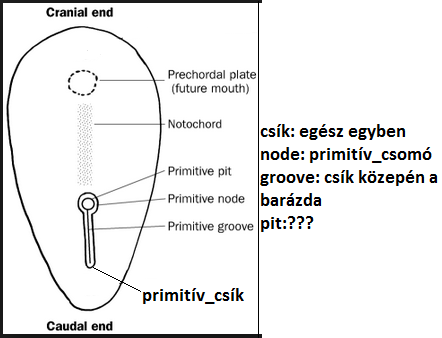
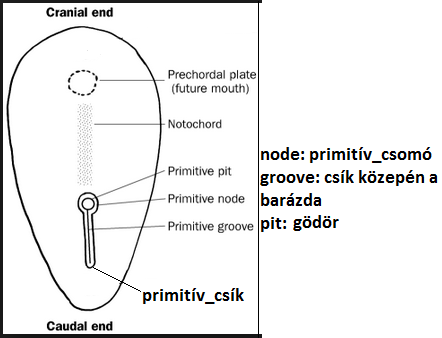
make some changes

Changed region(s): [[0.5882, 0.355, 0.9412, 0.4142], [0.6471, 0.6213, 0.7647, 0.6805]]

diff --git a/fb/FejlBiosz.html b/fb/FejlBiosz.html
@@ -42,11 +42,31 @@
 <!--///--><details><summary class="phase">1. Őssejtek biológiája, típusai. Indukált pluripotens őssejtek.</summary><div class="normal">
 <!--///--></div></details>
 
-<!--///--><details><summary class="phase">2. Ontogenezist szabályozó faktorok. Spemann organizátor központ molekuláris természete és szabályozása.</summary><div class="normal">
+<!--///--><details><summary class="phaseC">2. Ontogenezist szabályozó faktorok. Spemann organizátor központ molekuláris természete és szabályozása.</summary><div class="normal">
+	<div style="float:right;max-width:25%">
+		<img src="images/triton.png">
+		<img src="images/primitívcsík.png">
+		<img src="images/opticvescile.png">
+	</div>
+	<br><span class="white">&#9775;</span> Spemann a 20.század elején végzett kísérletet gőtén. Azt csinálta, hogy kivette az egyik embrióból a "dorsalis ajak" részét mikor az megjelent a gasztruláció előtt. Majd átültette egy azonos fejlődési stádiumban lévő másik gőteembrióba, ventralisan. Így utóbbi 2db "dorsalis ajak"-al rendelkezett. A fejlődése során ennek az lett a következménye, hogy egy másodlagos testtengely is kialakult benne(kép!). A kísérlet elvégzése után így nyilvánvalóvá vált, hogy a "dorsalis ajak" egész különleges képességgel rendelkezik, ugyanis képes egy újabb testtengelyt létrehozni. <abbr title="a különböző gőtefajok használata tette lehetővé ennek megállapítását, ugyanis látható volt, hogy az új testtengely mely részei erednek a donor embrióból és melyek a recipiensből">&#10045;</abbr> Méghozzá nem is akárhogy: az új tengely nagy része ugyanis a recipiens (amelyikbe beültették) sejtjeiből jött létre, azaz a "dorsalis ajak" arra utasította a körülötte levő sejteket, hogy hozzanak létre valamit, amit maguktól nem hoznának létre. Ezért is nevezték el Spemannék ezt a szövetdarabot “organizátornak”.
+	<br><span class="white">&#9775;</span> Az organizációs centrum alatt olyan sejtcsoport<abbr title="(=szövetdarab)">&#10045;</abbr> értünk, mely adott fejlődési stádiumban indukálja, hogy mi legyen a környező szövetekből. Embernél a gasztruláció során az organizációs centrum<abbr title="ez nem ilyen pontos definíció szerintem, mert sok más is befolyásolja stb, de a lényeg, hogy szvsz ez a fő ilyen irányító sejtcsoport">&#10045;</abbr> a primirív_gödör(=Hensen-csomó). Neurolational pedig a chorda_dorsalis, anteriovisceralis_endoderma stb. lesznek az organizációs centrumok.
+	<br><span class="miss">&#9775;</span> Neurolatio során pl. a chorda_dorsalis SHH-t expresszál, amivel ventralizáló hatása van. Ha a chorda_dorsalis nem lenne, akkor a dorsalis struktúrák alakulnának ki túlzott mértékben, ugyanis a BMP-4et nem gátolná semmi. Ebben a példában  az SHH és TGF&beta;(hisz BMP az) jelátviteli folyamatok zajlottak, melyek befolyásolták a TF-ek működését, és ezáltal közvetve befolyásolták génexpressziót, ami eredményezi a "túlzott mértékű dorzalizációt,ventralizációt" (vagy gőte esetében a másodlagos testtengelyt, de ott nem ezen jelátviteli folyamatok vannak feltételezhetően).
+	<br><span class="white">&#9775;</span> Például a szem fejlődésénél szemhólyag indukálja az ektoderma szemlencsévé alakulását. Ha a szemhólyagot ektoderma más része alá teszem, ott a szignál nem váltja ki átalakulását szemlencsévé, ugyanis az inkompetens. Tanúlság: csak a Pax6 (TF) expresszáló ektoderma képes szemlencsévé alakulni szignál hatására. Megfigyelhető később a reciprok indukció, vagyis a képződött szemlencse visszahat a szemhólyagra és kialakul belőle a retina.
+	<br><span class="miss">&#9775;</span> Hamburger-Hamilton stádium alatt a következőt értjük. Ők ketten figyelték a csirke fejlődését, és a a meghatározó stádiumokat megfigyelte. Ezt úgy érdemes felfogni, hogy pl. gasztruláció a HH-10, a neurolatio pedig a HH-11 (random számokat írtam).
+	<br><span class="miss">&#9775;</span> Zigótáknak alapvetően két típusát különböztetjük meg: mozaik és regulatios. Mozaik esetében a zigótának van polaritása, így ha egyik felét eltávolítom (vagy első osztódás után elkülönítem a kettőt), akkor nem fog normálisan fejlődni (úgy kell elképzelni, hogy testének csak egyik fele lesz meg). Ez csak primitív gerinceseknél van. Embernél regulatios van, ami esetében ha a zigóta első osztódása után különválasztom a két sejtet, akkor abból 1petéjű ikrek lesznek.<abbr title="szvsz 1.osztódás után ugyanis még ugyanolyan polaritású sejtek keletkeznek még">&#10045;</abbr>
 <!--///--></div></details>
 
-<!--///--><details open><summary class="phaseA">3. Ontogenezist szabályozó mechanizmusok. Transzkripciós faktorok és a Hox gének jelentősége. Jelátviteli folyamatok a fejlődésben.</summary><div class="normal">
-	<details open><summary>Esszé</summary>
+<!--///--><details><summary class="phaseA">3. Ontogenezist szabályozó mechanizmusok. Transzkripciós faktorok és a Hox gének jelentősége. Jelátviteli folyamatok a fejlődésben.</summary><div class="normal">
+	<div>
+		<div style="float:right;max-width:25%">
+			<img src="images/génkontroll.png">
+			<img src="images/sejdfifftf.png">
+			<img src="images/opticvescile.png">
+			<img src="images/recpitrokindukc.png">
+			<img src="images/ndlcdllk.png">
+			<img src="images/notchjustakrin.png">
+		</div>
+		<div class="title">Bevezetés</div>
 		<span class="white">&#9775;</span> Minden sejtben ugyanaz a DNS állomány, mégis különbözőek a sejtek felépítése stb. Ez azért van mert a fehérjék szabályozzák, hogy mely gének expresszálódjanak. A fejlődés irányítását végző fehérjék 2csoportra oszthatók: <strong>TF-ek</strong>, és <strong>jelátviteli molekulák</strong>. A jelátviteli folyamatok szabályozzák a TF-eket, melyeken keresztül pedig a génexpressziót. Első lépésben a génexpresszió közvetlen szabályozásáról írok (ebbe tartoznak a TF-ek).
 		<br><span class="white">&#9775;</span> A transzkripciós szabályozás 2 csoportra osztható: <strong>finom</strong> és <strong>durva</strong>. Durva lényege, hogy a hisztonok aminosavoldalláncaihoz kapcsolódnak különböző vegyületet (metilcsoport,acetilcsoport,foszfátot). Ezen belül megkülönböztetjük a <strong>metilációt</strong>, <strong>acetiláció</strong>, <strong>deacetiláció</strong> és <strong>foszforiláció</strong>. Metiláció silenceli az adott DNS-szakaszt. Acetiláció ellazítja a kromatint, és így serkenti a transzkripciót. Deacetiláció pont az ellentetjét váltja ki, tehát a kromatin kondenzálódik (visszafűződik), gátolja a transzkripciót. Foszforiláció szinte minden folyamatnál végbemegy.
 		<div class="title">Transzkripciós faktorok és a Hox gének jelentősége</div>
@@ -56,20 +76,20 @@
 		<div class="title">Jelátviteli folyamatok</div>
 		<span class="white">&#9775;</span> TF-ek komplexeket alkotnak, melyek bizonyos elemei folyamatosan kicserélődnek a fejlődés során. Ezen átalakulást a <strong>jelátviteli folyymatok</strong> végzik. Jelátviteli molekulák: <strong>ligandum=szignál</strong>(pl.GF-ek,BMP,SHH) + <strong>receptor</strong>. Receptor ha megköti a ligandumot, akkor elindul az ún. <strong>szignáltranszdukciós_útvonal = jelátviteli_útvonal</strong>, mely által szabályozzák majd a TF-eket.
 		<br><span class="white">&#9775;</span> Lényegük, hogy egy <strong>sejtcsoport (inducer)</strong> expresszál valamilyen <strong>ligandumot</strong>(pl.BMP,SHH), és ez fog hatni egy másik <strong>sejtcsoportra (responder)</strong>. Pl. chorda_dorsalis(inducer) expresszál SHH-t(szignál), mely következtében indukálja az ectoderma(responder) neuroectodermává válását.
-		<br><span class="white">&#9775;</span> A kompetencia egy adott sejtcsoport válaszadási képessége egy bizonyos szignálra. pl. szemhólyag fejlődésnél szemhólyag indukálja az ektoderma szemlencsévé alakulását. Ha a szemhólyagot ektoderma más része alá teszem, ott a szignál nem váltja ki átalakulását szemlencsévé, ugyanis az inkompetens. Tanúlság: csak a Pax6 (TF) expresszáló ektoderma képes szemlencsévé alakulni szignál hatására. Megfigyelhető később a reciprok indukció, vagyis a képződött szemlencse visszahat a szemhólyagra és kialakul belőle a retina.
+		<br><span class="white">&#9775;</span> A kompetencia egy adott sejtcsoport válaszadási képessége egy bizonyos szignálra. Például a szem fejlődésénél szemhólyag indukálja az ektoderma szemlencsévé alakulását. Ha a szemhólyagot ektoderma más része alá teszem, ott a szignál nem váltja ki átalakulását szemlencsévé, ugyanis az inkompetens. Tanúlság: csak a Pax6 (TF) expresszáló ektoderma képes szemlencsévé alakulni szignál hatására. Megfigyelhető később a reciprok indukció, vagyis a képződött szemlencse visszahat a szemhólyagra és kialakul belőle a retina.
 		<br><span class="white">&#9775;</span> A fejlődésben szerepet játszó fontosabb jelátviteli_útvonalak: <span class="WHITE">Citokinin</span> <span class="WHITE">RPTK</span> <span class="WHITE">TGF&beta;</span> <abbr title="(valójában Hg-R volt, szóval az lehet nagyobb csoportot jelöl, vagy valami gént mittudomén, de ez a lényege csak)">HH</abbr> <span class="WHITE">Wnt</span> <span class="WHITE">Notch</span>.
 		<br><span class="white">&#9775; TGF&beta;</span> <strong>Negatív</strong> befolyással vannak a növekedésre. A ligandumokról kapta az elnevezést, ugyanis azok a TGF&beta;-(szuper)család. Ebbe családba tartoznak pl. BMP-k, Nodal. <strong>Nodal</strong> részt vesz pl. jobb-bal asszimetria kialakulásában (lásd még HH-jeltáviteli_útvonal). <strong>BMP</strong> részt vesz pl. neurolációnál (és csontfejlődésben is, a nevét onnan kapta: Bone Morphogenetic Protein). Neuroláció során kiinduláskor, az ectoderma a "benne lévő" BMP-4 koncentráció alapján 3 részre osztható: magas a későbbi epidermisben, közepes a későbbi dúclécben, alacsony a későbbi velőcsőben. Ez gátolja at ectoderma átalakulását neuroectodermává. Azonban a chorda_dorsalis olyan szignálokat küldd (WNT3 és az FGF) melyek gátolni fogják a BMP-4-et és megkezdődik a neuroláció.
 		<br><span class="white">&#9775; RPTK</span> Nevét a receptorrol kapták: <strong>receptor-tirozin-kináz</strong>(RTK). A ligandumok a <strong>GF</strong>-ek. Az FGF <strong>pozitív</strong> befolyással van a növekedésre.
 		<br><span class="white">&#9775; HH</span> Ligandunok neve: <abbr title="SonicHedgeHog">SonicHH</abbr> (,DesertHH, IndianHH). Jelentősége pl. bal-jobb aszimmetria kialakítása, ennek lényege: primitív csomó környékén vannak csillók, melyek átáramoltatják bal_oldalra az SHH-t<abbr title="és egyéb">&#10045;</abbr>, aminek következtében a <strong>nodal</strong>(szignálmolekula=ligandum) expresszió bal oldalt fog történni.
 		<br><span class="white">&#9775; WNT</span> Ligandumok neve WNT. Jelentősége pl. gasztruláció, illetve !szvsz! neuroláció megkezdésének is a feltétele (WNT-3)
-		<div class="title"><span class="Important">Notch jelátviteli útvonal</span></div>
+		<div class="title">Notch jelátviteli útvonal</div>
 		<span class="WHITE">&#9775; Előfordulása:</span> Gerinctelenekben és gerincesekben egyaránt jelen van. Sokmindenben részt vesz, emberben pl. T-progenitor-sejt visszafordíthatatlan T-sejt irányú elkötelezettséget indukálja (hogy ne lehessen már B-progenitor-sejt). 
 		<br><span class="WHITE">&#9775; Jellemzése:</span> Ez juxtakrin jelátviteli útvonal (tehát a ligandumot kibocsátó sejt, és az azt receptorral fogadó sejt egymással érintkezik!). Ugyanis a receptor és szignál(=ligandum) is transzmembrán-fehérje. Receptor neve Notch, a ligandum neve Delta.
 		<br><span class="WHITE">&#9775; Bemutatása:</span> Ennek hatását legjobban a drosophila(muslica) idegrendszerénék fejlődésében lehet kimutatni (ott is fedezték fel). Itt jól megfigyelhető az ún. laterális-gátlás: tehát a már neuronná alakuló sejt elkezd expresszálni ligandumot, melyet a környező sejtek Notch-receptorai megfognak. Ennek következménye, hogy az expresszáló sejt átalakul neuronná, míg a körülötte lévő sejtek megmaradnak progenitor fázisban (később pedig átalakulnak majd glia-sejtekké). Így az ektoderma egy része fog csak átalakulni neuroektodermává. Felfedezése ehhez volt köthető, ugyanis egyes példányokban szinte az egész ectoderma átalakult neuroektrodermává, és utánajártak mi volt az oka.
 		<br><span class="WHITE">&#9775; Lényege:</span> Amikor a receptor és a ligand fúzionál extracellulárisan, akkor a receptor intracelluláris része <abbr title="notch intracellular domain">(NICD)</abbr> levágódik. Ez bejut a sejtmagba ahol egy transzkripciós-koaktivátor-komplexhez csatlakozik. Normál állapotban a transzkripciós-koaktivátor-komplex gátolja a bizonyos represszor_TF-eket (represszor=gátló!!) kódoló géneket. Azonban a NICD hatására már nem fogja gátolni azokat a géneket, és megkezdődik a represszor_TF-ek expressziója. Ezek olyan gének expresszióját fogják gátolni, melyek szövetspecifikusak (pl. proneuralis gének). Ezáltal akadályozza meg a sejtelköteleződést, azaz tartja meg a progenitor állapotot. Tehát a Bemutatása példában azért alakult át szinte az egész ectoderma neuroectodermává, mert hibás volt a Notch-jelátviteli út, és nem volt ami mérsékelte volna az átalakulás mértékét.
 
 
-	</details>
+	</div>
 	<br><br><details><summary>Részletesebb</summary>
 		<div style="float:right;max-width:16%">
 			<img src="images/génkontroll.png">
@@ -242,17 +262,19 @@
 	<br><span class="WHITE">&#9775; Lényege:</span> Amikor a receptor és a ligand fúzionál extracellulárisan, akkor a receptor intracelluláris része <abbr title="notch intracellular domain">(NICD)</abbr> levágódik. Ez bejut a sejtmagba ahol egy transzkripciós-koaktivátor-komplexhez csatlakozik. Normál állapotban a transzkripciós-koaktivátor-komplex gátolja a bizonyos represszor_TF-eket (represszor=gátló!!) kódoló géneket. Azonban a NICD hatására már nem fogja gátolni azokat a géneket, és megkezdődik a represszor_TF-ek expressziója. Ezek olyan gének expresszióját fogják gátolni, melyek szövetspecifikusak (pl. proneuralis gének). Ezáltal akadályozza meg a sejtelköteleződést, azaz tartja meg a progenitor állapotot. Tehát a Bemutatása példában azért alakult át szinte az egész ectoderma neuroectodermává, mert hibás volt a Notch-jelátviteli út, és nem volt ami mérsékelte volna az átalakulás mértékét.
 	<div class="title"><span class="Important">Gasztruláció</span></div>
 	<span class="WHITE">&#9775;</span> Két fontos dolog történik. Egyrészt kialakul a 3 csíralemez (ektoderma,endoderma,mezoderma) az epiblast-sejtekből<abbr title="epiblast és hypoblast az embrioblast sejtekből jött létre">&#10045;</abbr>. Másrészt kialakulnak a testtengelyek: anterior-posterior, dorsal-ventral, jobb-bal. Szabályozásában itt leginkább a parakrin jelátviteli útvonalak fordulnak elő<abbr title="ettől még van juxtakrin is de sokkal kisebb jelentőségű">&#10045;</abbr>. Ez a határ a pluripotens és multipotens-sejtek között (innentől már multipotens-sejtek lesznek).
-	<br><span class="WHITE">&#9775;</span> Az epiblast sejtek folyamatosan osztódnak, és közben elkezdenek középirányba vándorolni, így felhalmozódnak, és ennek következtében primitív_csík megjelenik az embrió !posterior! oldalán(~14.napon). Innen növekedik anterior irányba tovább. Primitív_csík anterior részen közben kialakul a primitív_csomó(=Hensen-csomó). (szvsz A primitív_csíkot úgy érdemes felfogni mint egy domb (sok sejt ott feltorlódik), de a közepén van egy "völgy", ami a primitív_barázda.)
+	<br><span class="WHITE">&#9775;</span> Az epiblast sejtek folyamatosan osztódnak, és közben elkezdenek középirányba vándorolni, így felhalmozódnak, és ennek következtében egy primitív_csík megjelenik az embrió !posterior! oldalán(~14.napon). Innen növekedik anterior irányba tovább. Primitív_csík anterior részen közben kialakul a primitív_csomó(=Hensen-csomó). (A primitív_csíkot úgy érdemes felfogni mint egy domb (sok sejt ott feltorlódik), de a közepén van egy "völgy", ami a primitív_barázda.)
 	<br><span class="WHITE">&#9775;</span> Alapvetően az epiblast-sejtek normál hengerhámsejtek. Amikor a primitív_gödörben át bejutnak az epiblast és hypoblast réteg közé, akkor ún. epithelio-mesenchymális átalakuláson mennek keresztül. Nohde, ez hogy történik? Amikor ezen sejtek feltorlódnak a primitív_csíkban, akkor FGF-8 (!parakrin! jelátviteli útvonal szignálja) hatására megváltoznak. Tehát fellazulnak a sejtek közti kapcsolatok, bazális membránnal való kapcsolat. Ezek belépnek a hypoblast-epiblast réteg közé, és innentől mesenchymal-sejteknek hívjuk őket. Ezek egyrésze beékelődik a hypoblast sejtek része közé, és szétnyomják azokat. Ezek a bevándorolt mesenchyma-sejtek alakulnak át endodermává (míg a hypoblastból extraembrionális endoderma lesz csak!). 
 	<br><span class="WHITE">&#9775;</span> Nohde, mi szabályozza az egészet, tehát 1 epiblast-sejt mi alapján döntse el, hogy endo/meso/ectoderma legyen-e? A válasz abban van, hogy az epiblast sejt nem mindegy, hogy MIKOR halad át a primitív_csík MELY részén. Ugyanis a primitív csíknak anteroposterior és dorsoventral irányban is van szegregáltsága(elkülönülése), melyet a molekuláris komponensek határoznak meg. Dorsoventralisat az FGF-8 végzi, ugyanis ennek koncentrációja nagy dorsalisan, ventralisan alacsony. Anterioposterior tengely mentén szintén hasonló, de ott több típusú fehérje is van ami szabályozza (bonyolult, és még nem teljesen tisztázott). 
 	<br><span class="WHITE">&#9775;</span> A primitív_barázdába belépő (epiblast származék) mesenhyma-sejtek bilaterálisan vándorolnak. Hensen-csomónál azonban belépő sejtek a többivel ellentétben anterior irányba vándorolnak, és ebből lesz a prechordalis lemez és a chorda_dorsalis(=notochord). 
 	<br><span class="WHITE">&#9775;</span> A belépő epiblast sejtek még pluripotensek, majd a primitív csíkba belépve "kapja meg az infót", hogy milyen sejt legyen belőlük. Az infot parakrin jelátviteli úton kapják meg főként. 
 	<br><span class="WHITE">&#9775;</span> Ezenkívül megemlítendő, hogy a primitív_csík "1.fázisban" még posterior felől anterior irányba növekszik, majd "2.fázisban", elindul az anterior vége ismét "visszafogy". Utóbbi során a Hensen-csomón belépő epiblast-sejtek folyamatosan hozzáadódnak a chorda_dorsalishoz, és így alakul ki teljes hosszában. 
-	<br><span class="WHITE">&#9775;</span> Ectoderma a gastrulatio elején a primitív_csík és Hensen-csomó előtti (anterior irányban lévő) epiblastból fog kialakulni. 
+	<br><span class="WHITE">&#9775;</span> Ectoderma a gastrulatio elején a primitív_csík és Hensen-csomó előtti (anterior irányban lévő) epiblastból fog kialakulni.
+	
+	<br><br>“Nem a születés, a házasság, vagy a halál, hanem a gasztruláció életed legfontosabb eseménye.” (ugyanis, ha valami itt nem tökéletes akkor kampó)
 <!--///--></div></details>
 
 <!--///--><details><summary class="phaseA">8. Mintázatképződés az emlősembryóban: antero-posterior és dorso-ventralis tengelyek kialakulása.</summary><div class="normal">
-	<div style="float:right;max-width:10%">
+	<div style="float:right;max-width:13%">
 		<img src="images/antepostdoven.png">
 		<img src="images/polocyte.png">
 		<img src="images/anteroviscend.png">
@@ -263,25 +285,25 @@
 		<img src="images/ndlcdllk.png">
 	</div>
 	<span class="important">&#9775;</span> Embriónál anteroposterior alatt a cranial-caudalt értjük, tehát a feji vége anterior.
-	<div class="title">Fertilizáció során a polaritás</div>
+	<br><br><div class="title">Fertilizáció során a polaritás</div>
 	Petesejtnek már a feritilizáció előtt van a citoplazmájának összetétele alapján bizonyos polaritása, azaz 2 részre osztható: van egy animális fele, és egy vegetális fele (utóbbiban több a szikanyag, míg előbbiben a maganyag több). Fertilizáció során a spermium pronucleusa a petesejt animális felében lép be. <span class="Important">A belépési pont lesz az embrió ventralis része, azzal szemben pedig a dorsalis része</span> (dorsalisnál lesz majd a blasztopórus). Zigóta első osztódása a dorso-ventral pontokat összekötő tengelyre merőleges síkon keresztül, a hossztengellyel párhuzamosan történik (azaz szvsz első után még mindkét sejtben animális és vegetális kb ugyanannyi), (szvsz hossztengely = anteroposterior-tengely).
 
-	<div class="title">(Barázdálódás)</div>
+	<br><br><div class="title">(Barázdálódás)</div>
 	(4 osztódás történik, tehát kialakul a 16sejtű morula = szedercsíra állapot). (Ezután megtörténik a kompaktizáció (lásd 6.tétel)). (Végül kialakul a blastula). Amely sejtek kívül vannak, azokból lesznek trophoblast-sejtek. Amely sejtek belülül vannak, azokból lesznek embrioblast-sejtek<abbr title="ezek összesége az ún. embriocsomó">&#10045;</abbr>.
 
-	<div class="title">Gasztruláció &#10140; AnteroPosterior-TENGELY kialakulása</div>
+	<br><br><div class="title">Gasztruláció &#10140; AnteroPosterior-TENGELY kialakulása</div>
 	<span class="WHITE">&#9775;</span> <span class="Important">FONTOS! 7.tételben van kidolgozva részletesen, itt csak AP-tengelyre vonatkozó részleteit említem meg!</span> Két fontos dolog történik. Egyrészt kialakul a 3 csíralemez (ektoderma,endoderma,mezoderma) az epiblast-sejtekből<abbr title="epiblast és hypoblast az embrioblast sejtekből jött létre">&#10045;</abbr>. Másrészt kialakulnak a testtengelyek: anterior-posterior, dorsal-ventral, jobb-bal. A gasztruláció során zajlik a neuroláció "előkészítése"(neuroektoderma-kialakulás, ami utána majd lefűződik). Alapvetően az ectoderma azért nem alakul át neuroektodermává(későbbi velőcső lesz), mert a BMP-4 gátolja ezt. 
 	<br><span class="WHITE">&#9775;</span> Primitív-csík megjelenésekor már az anteroposterior tengely meghatározható, ugyanis a csík a posterior oldalon jelenik meg, és anterior irányba terjed tovább. Ez hogyan határozódik meg? A 2 csíralamezes (epiblast, hypoblast) állapotban (tehát gasztruláció kiindulásakor) már anterior irányban látható egy ún. anterovisceralis endoderma. Ez indukálja a primitív csík és primitív csomó kialakulását. A kialakuló chorda_dorsalis és primitív_csomó olyan szignálokat (pl.chordin) küld, ami gátolja a BMP-4et. Ezek a faktorok csak az előagy és a középagy fejlődését indukálják. Az utóagy és a gerincvelő kialakulása a WNT3 és az FGF hatására történik! Ennek következtében az ectoderma egy része átalakul neuroektodermává.
 	<div class="title">AnteroPosterior-MINTÁZAT kialakulása</div>
 	Tehát a gasztrulációnál az előbbiekben az anteroposterior TENGELY kialakulását említettem meg. A MINTÁZAT kialakulása később történik. AP-mintázat-kialakulás alatt a szegmentációt, tehát a szelvényezettség kialakulását értem. Ezt a HOX gének irányítják. Megjegyzendő, hogy a retinsav szabályozza a HOX gének expresszióját.
 
-	<div class="title">DorsoVentral-tengely kialakulása</div>
+	<br><br><div class="title">DorsoVentral-tengely kialakulása</div>
 	Epiblast és hypoblast réteg kialakulánásnál már meghatározódott az embrió dorsoventral tengelye. De fontos jelentősége van még a velőcső dorsoventral-tengelyének kialakulásának (továbbiakban erről lesz szó). Kiinduláskor az ectodermában lévő BMP-4 koncentráció alapján 3 részre oszhatóak: magas a későbbi epidermisben, közepes a későbbi dúclécben, alacsony a későbbi velőcsőben. A chorda_dorsalis SHH-t expresszál. SHH-nak a koncentráció fv-ében ventralizáló hatása van (minél nagyobb koncentrációjú, akkor ventrálisabb lesz). Így a chorda_dorsalis "felett" lévő fejlődő velőcső lesz ventralis, a tőle egyre távolabbi pedig dorsalis. A velőcső bezáródása után megjelenik az ún. floor_plate és roof_plate. A floor_plate és is ugyanúgy expresszálja tovább SHH-t, csakúgy mint chorda_dorsalis A roof_plate azonban BMP-4et expresszál. Ennek hatása pont ellentétes az SHH-éval, tehát dorzalizál. (Érdekesség, hogyha egy másik chorda_dorsalist ültetünk a velőcső mellé, akkor megjelenik még1 floor_plate)
 	<div class="title">Bal-jobb asszimetria kialakulása</div>
 	<span class="WHITE">&#9775;</span> Primitív csomó környékén lévő sejteken vannak csillók, melyek átáramoltatják bal_oldalra az SHH-t, aminek következtében a nodal(szignálmolekula=ligandum) expresszió bal oldalt fog történni. Primitív_csomó és primitív csík expresszálja a nodalt. Primitív_csomó és chorda_dorsalis expresszálja az SHH-t. 
 	<br><span class="WHITE">&#9775;</span> Situs inversus &#10140; fejlődési rendellenesség, amikor jobb oldalon vannak az eredetileg bal oldali szervek (pl. szív) (ilyenje van pl. Enrique Iglesias-nak).
 
-	<div class="title">mix</div>
+	<br><br><div class="title">mix</div>
 	<span class="vocab">&#9775;</span>Spemann kísérlete: 1 Blastoporust tett egy másik gasztrulációban lévő embrióba, és ennek következtében azon mentén is elkezdett fejlődni az idegrendszer stb.
 <!--///--></div></details>
 
@@ -317,21 +339,39 @@
 	<br><span class="Important">pl</span> Fenilketonúria oka a fenilalanin hidroxiláz génben való mutáció. Ez az enzim normálisan a fenilalanin aminosavat alakítja tirozinná. A hibás működés eredményekét toxikus szintűre halmozódik fel a fenilalanin. Ez a betegség a szellemi visszamaradottság mellett pl. csökkent haj és bőr pigmentáltságot is okoz.
 <!--///--></div></details>
 
-<!--///--><details><summary class="phase">10. Ősivarsejtek differenciálódása: specifikálódás, migráció, fejlődés.</summary><div class="normal">
+<!--///--><details><summary class="phaseC">10. Ősivarsejtek differenciálódása: specifikálódás, migráció, fejlődés.</summary><div class="normal">
+	<div style="float:right;max-width:30%">
+		<img src="images/miosis.png">
+		<img src="images/migration.png">
+		<img src="images/downregulation.png">
+		<img src="images/folliculus.png">
+	</div>
+	<div class="title">Bevezetés</div>
+	<span class="white">&#9775;</span> Felnőttben kétféle sejttípus van: csírasejt(1féle) és <abbr title="testi_sejtek">szomatikus_sejtek</abbr>(~200féle). Csírasejt az egyetlen olyan sejt, mely képes a genetikai infot egyik egyedből a másikba tovább vinni. Ezért is nevezik "hallhatatlan"-nak, míg a testi_sejteket "halandó"-nak.
+
+	<br><br><div class="title">Specifikálódás</div>
+	<span class="white">&#9775;</span> Mikor válnak el a fejlődés során a csírasejtek a szomatikus sejtektől? Tehát mikor történik meg az, hogy az addig "hasonló"-sejtek egyike marad a "hallhatatlan csírasejthez vezető ösvényen", míg a másik már onnantól szomatikus-sejt, ugyanis a végén biztosan valamelyik lesz a ~200 közül. Ez kétféleképpen megy végbe: emlősöknél illetve nem-emlősöknél másképp történik. Azonban mindegyiknél az lesz, hogy kialakulnak a PGC(primordial germ cell)-k, melyek végül a mezodermális gonádtelepbe vándorolnak.
+	<br><span class="white">&#9775;</span> Nem-emlősök esetében már a gasztruláció előtt végbemegy az elkülönülése a kétféle sejttípusnak. Ez azért van így, mert a zigótában már a citoplazmában a molekulák nem "egyenletesen oszlanak el", és amely részében magas az RNS-ek száma, az osztódások után előbb-utóbb csírasejt lesz, míg a többi szomatikus. Tehát ennek a lényege, hogy a zigóta citoplazmája szabja meg a csírasejtek kialakulását. (A zigóta citoplazmája megegyetik a petesejtével, hiszen a spermium nemad hozzá semmit.) (képen a lényeg van, tehát nem feltétlen 2db osztódás után lesz 1db csírasejt és 3db szomatikus, csak itt a zigótán belüli polaritás az oka az egésznek). Hüllőknél jellemző ez.
+	<br><span class="miss">&#9775;</span> Emlősök (és madarak) esetében is gasztruláció előtt megy végbe a szomatikus és csírasejtek elkülönülése. Ennek az oka nem a zigóta citoplazmájának polaritása, hanem külső indukció (jelátviteli_folyamat!). Extraembrionális ectoderma expresszál BMP-4et, melyet akceptálva az <span class="MISS">epiblast proximális részén lévő</span> <span class="FIX">KÉPEKET nem értem milyen síkban készülnek, proximalis jelentését se értem!!</span> sejtekből PGC vagy extraembrionális_ectoderma lesz. Hogy mi alapján dönti el, hogy a kettő közül melyik legyen, egynelőre nem ismert. <span class="FIX">Majd ezután PGC migrates out of the embryo and resides in extraembryonic tissue until gastrulation. Ezt a lépést se értem </span>
+
+	<br><br><div class="title">Migráció</div>
+	<span class="white">&#9775;</span> Gasztruláció után kivándorolnak a PGC-k az allantois falába. (Oct-4-gén mutatható ki<abbr title="szvsz az van nekik éppen dekondenzált formában a többi sejttel ellentétben, és ahhoz tudnak valami festékanyagot adni">&#10045;</abbr>). Innen a gasztruláció után megy tovább az utóbél endodermájába, majd továbbhalad a genitális redőbe. A migrációt is a sejt környezeti feltételei szabják meg (jelátviteli folyamatok, tehát milyen szignálok érik). Pl. a Blimp-1 gén által kódolt TF az egyik alapfeltétele a migrációnak.
+
+	<br><br><div class="title">Fejlődés</div>
+	<span class="miss">&#9775;</span> Meiózis porophase I fázisait kihagytam!!.
+	<br><span class="important">&#9775; Aneuploidia:</span> Aneuploidia <abbr title="Poliploidia esetében a haploid kromoszómaszám egészszámú többszörösényi eltérés van, tehát pl. 46 helyett 69 vagy 23 stb. Ez csak növényeknél nem okoz letalitást">&#10045;</abbr> esetében a kromoszómák száma eltér a normálistól(46). Lehet több is, pl. Dawn-kór (21es triszómia), vagy kevesebb is pl. Turner-szindróma (X monoszómia). Azonban ember (és állatok) esetében a következő elmondható: a többlet nagyobb eséllyel nem okkoz letalitást, mint a hiány, ugyanis a Turner szindróma az egyetlen amely nem okoz letalitást. Ellenben többletnél van néhány, mely nem okoz halált: pl. Dawn-kór, Klinefelter-szindróma(XXY), Jacobs-szindróma(XYY)<abbr title="még van 1-2, de szvsz nem tengernyi">&#10045;</abbr>. Aneuploidia oka, hogy a meiózis során non-diszjunkció ment végbe, és ennek következtében a homológ-kromoszómapárok(ha 2.fázisban történt) vagy testvérkromatidák(ha 2.fázisban történt) nem váltak szét. Általánosan elmondható még az is, hogy a petesejteknél jön elő gyakrabban, hiszen azok már az embrionális fejlődés során elkészülnek, ellen a gametogenesissel, mely folytonos &#10140; spermiumok ~2% aneuploida, míg petesejtek 20-25%. Pl. Dawn-kór esetében az anya 35éves kor feletti terhessége esetében már intenzíven elkezd nőni az esélye a + évekkel, hogy utódja Dawn-kóros lesz (ezért is kötelező onnantól a vizsgálat).
+	<br><span class="important">&#9775; Oogenezis:</span> PGC mikor belép az gonádba(ovarium telepe) lezajlik az első lépés, a follikulogenezis. Ennek lényege, hogy körbeveszi a tüszőhám(1rLH), és így kialakul a primordiális_follikulus. Feltétele, hogy a csírasejt expresszáljon Figl α(TF). Oogenezis következő lépése pubertáskorban lesz, amikor kialakul a primer_folliculus. Ennek lényege, hogy a tüszőhámsejtek először köbössé, majd hengerhámmá válnak. Feltétele, hogy a NOBOX gén "jó legyen", ha hibás akkor meddőség van. Fig α is feltétele, hogy kialakulhasson közben a zona pellucida is. A következő lépés, hogy kialakul a szekunder follikulus, amikor a tüszőhám már 2-3rétegű. Ennek feltétele a Gdf9(TF) and BMP-15(TF). <abbr title="nem folytattam">&#10045;</abbr>
+
 <!--///--></div></details>
 
 
 <br><br><br><br><br><br>
 
 <!--///--><details><summary class="phase">Ontogenezist szabályozó mechanizmusok III. Epigenetikus hatások, DNS metiláció, imprinting</summary><div class="normal">
-	<div style="float:right;max-width:25%">
+	<div style="float:right;max-width:30%">
 		<img src="images/sszfgll.png">
 		<img src="images/apdvtngly.png">
 		<img src="images/bcdnns.png">
-		<img src="images/gtlsdrsp.png">
-		<img src="images/metiláció.png">
-		<img src="images/nypprnklsz.png">
-		<img src="images/xkrmszm.png">
 	</div>
 	<div><span class="vocab">&#9775;</span> Drosophila(muslica) szelvényezettségének kialakulásán keresztül lehet jól bemutatni a morfogének hatását. <a href="images/sszfgll.png">kép</a></div>
 	<div><span class="Important">//továbbiakban Drosophila-ról van van szó, egész addig, amíg nem jelzem!//</span></div>
